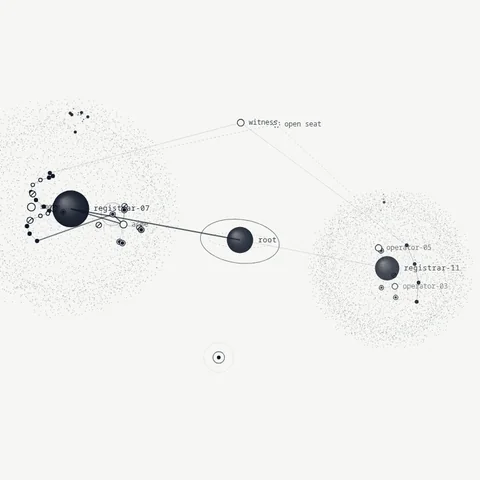
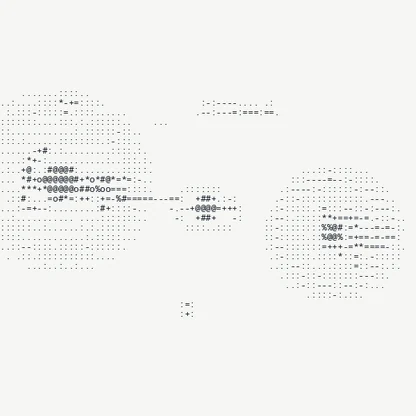
site: AINRA World can be drawn in characters (Points, Text, Braille, Dither); the loading mark fills in as text with the real progress; the home circle shows the world as text
Our own renderer: the live canvas is sampled into cells and redrawn as characters, 2x4 dot cells or 1-bit ordered
dither, in ink and paper only; labels stay crisp on top. The character layer is redrawn about twenty times a second
and kept between frames: measured 16.7 ms median frame in every view at 1440x900. The chosen view is remembered in
this browser only. No outside code.

diff --git a/site/world.html b/site/world.html
@@ -31,7 +31,7 @@
 <!-- Loading: determinate, with the real step named, shown from the first paint (before any script runs). -->
 <div class="boot" id="boot" role="progressbar" aria-label="Loading the network" aria-valuemin="0" aria-valuemax="100" aria-valuenow="0">
   <div class="boot__in">
-    <svg class="boot__mark" viewBox="0 0 112 112" aria-hidden="true"><use href="#mark"/></svg>
+    <svg class="boot__mark" id="bootMark" viewBox="0 0 112 112" aria-hidden="true"><use href="#mark"/></svg><pre class="boot__art" id="bootArt" aria-hidden="true" hidden></pre>
     <div class="boot__title">AINRA WORLD</div>
     <div class="boot__bar"><i id="bootBar"></i></div>
     <div class="boot__step" id="bootStep">Reading the published record</div>
@@ -88,7 +88,7 @@
       <div class="stat"><b id="sChk">0</b><span>checks here</span></div>
       <div class="stat"><b id="sMs">–</b><span>median check</span></div>
     </div>
-    <div class="seg" id="filters" role="radiogroup" aria-label="Show registrars"><span class="seg__pill" id="segPill" aria-hidden="true"></span></div>
+    <div class="dock__right"><div class="seg" id="viewSeg" role="radiogroup" aria-label="How the world is drawn"><span class="seg__pill" aria-hidden="true"></span></div><div class="seg" id="filters" role="radiogroup" aria-label="Show registrars"><span class="seg__pill" id="segPill" aria-hidden="true"></span></div></div>
   </div>
   <div class="timeline">
     <button class="play" id="play" type="button" aria-label="Replay the record" aria-pressed="false"><span class="swap" id="playIc"></span></button>

diff --git a/site/css/living.css b/site/css/living.css
@@ -418,10 +418,10 @@ html[data-motion="off"] .g-menu{animation:none!important}
 .world-dot{position:fixed;z-index:55;right:56px;bottom:24px;width:104px;height:104px;border-radius:50%;display:grid;place-items:center;
   background:var(--card);border:1px solid var(--ink);overflow:hidden;text-decoration:none;color:var(--ink);
   box-shadow:0 1px 0 rgba(11,18,32,.04);transition:scale .25s var(--ease-out),opacity .25s}
-.world-dot img{grid-area:1/1;width:100%;height:100%;object-fit:cover;scale:1.25;transition:scale .6s var(--ease-out)}
+.world-dot img{grid-area:1/1;width:100%;height:100%;object-fit:cover;scale:1.02;transition:scale .6s var(--ease-out)}
 .world-dot__pill{grid-area:1/1;position:relative;z-index:1;display:inline-flex;align-items:center;gap:4px;padding:4px 9px 4px 10px;border-radius:999px;background:var(--ink);color:var(--paper);font:500 12px/1 var(--sans);letter-spacing:.01em}
 .world-dot__pill svg{width:11px;height:11px}
-.world-dot:hover img{scale:1.4}
+.world-dot:hover img{scale:1.14}
 .world-dot.is-down,.world-dot:active{scale:.96}
 html.g-menu-open .world-dot,html.g-search-open .world-dot{opacity:0;pointer-events:none}
 @media (max-width:700px){.world-dot{width:72px;height:72px;right:16px;bottom:calc(88px + env(safe-area-inset-bottom))}.world-dot__pill{font-size:11px;padding:3px 7px 3px 8px}

diff --git a/site/css/world.css b/site/css/world.css
@@ -249,3 +249,11 @@ kbd{font:12px var(--mono);border:1px solid var(--hair);border-radius:5px;padding
 .brand{padding-block:4px;margin-block:-4px}
 .seg button{min-height:28px}
 @media (pointer:coarse),(max-width:700px){.seg button{min-height:44px}.brand{padding-block:10px;margin-block:-10px;min-width:44px;justify-content:center}}
+
+/* ── Drawn in characters (23 Nov): a View control, and the loading mark in text ───────────────────────────────
+   Our own renderer: the live canvas is sampled into cells; each cell becomes a character (Text), a 2×4 dot cell
+   (Braille) or a 1-bit ordered-dither pixel (Dither). Ink and paper only, both appearances. Labels stay crisp. */
+.dock__right{display:flex;gap:10px;flex-wrap:wrap;justify-content:flex-end;align-items:center}
+@media (max-width:900px){.dock__right{justify-content:flex-start}}
+.boot__art{margin:0 auto 14px;font:9px/9px var(--mono);letter-spacing:0;color:var(--ink);white-space:pre;text-align:left;display:inline-block}
+.boot__art[hidden]{display:none}
